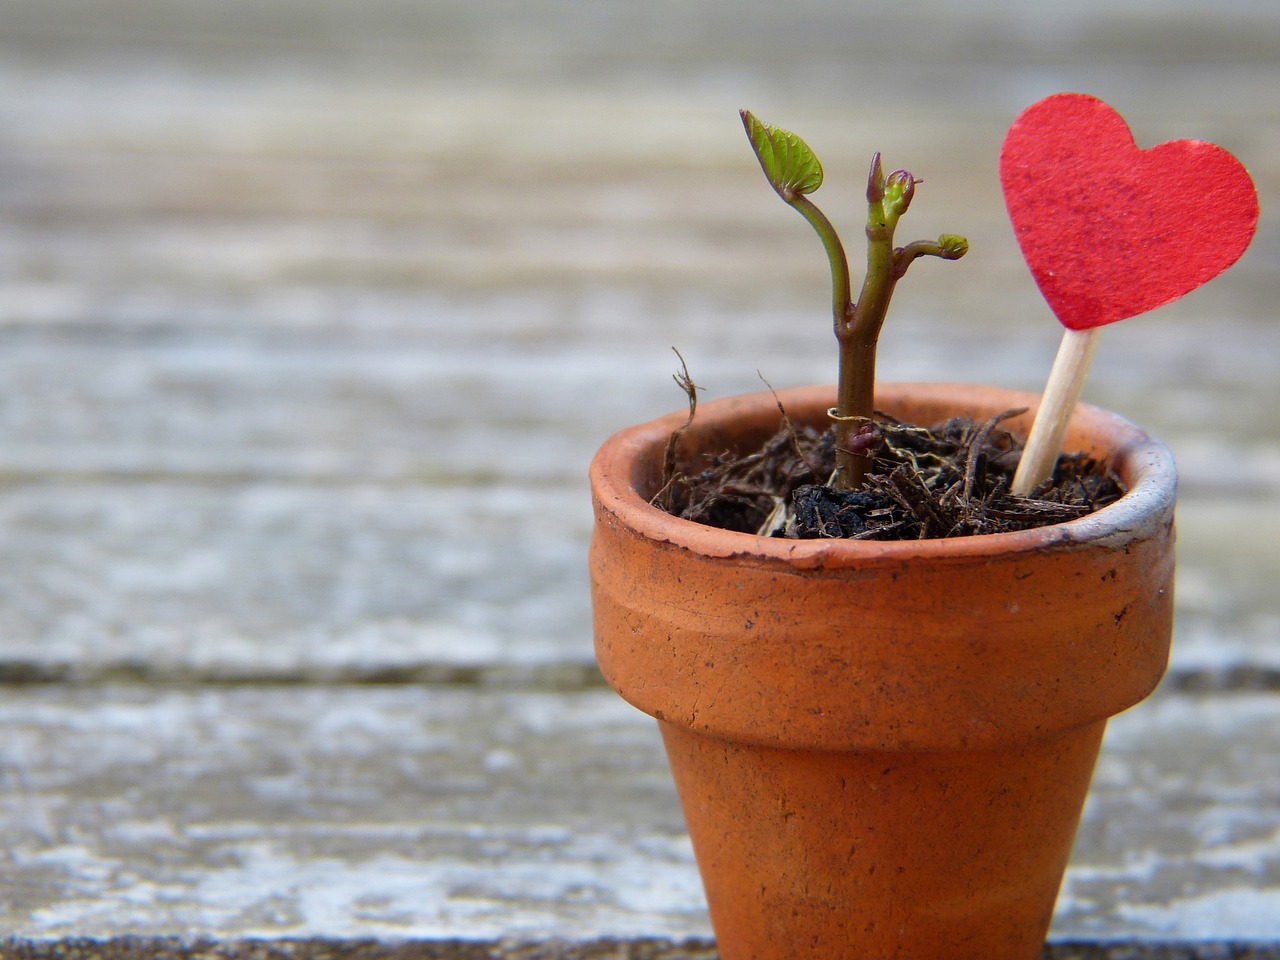
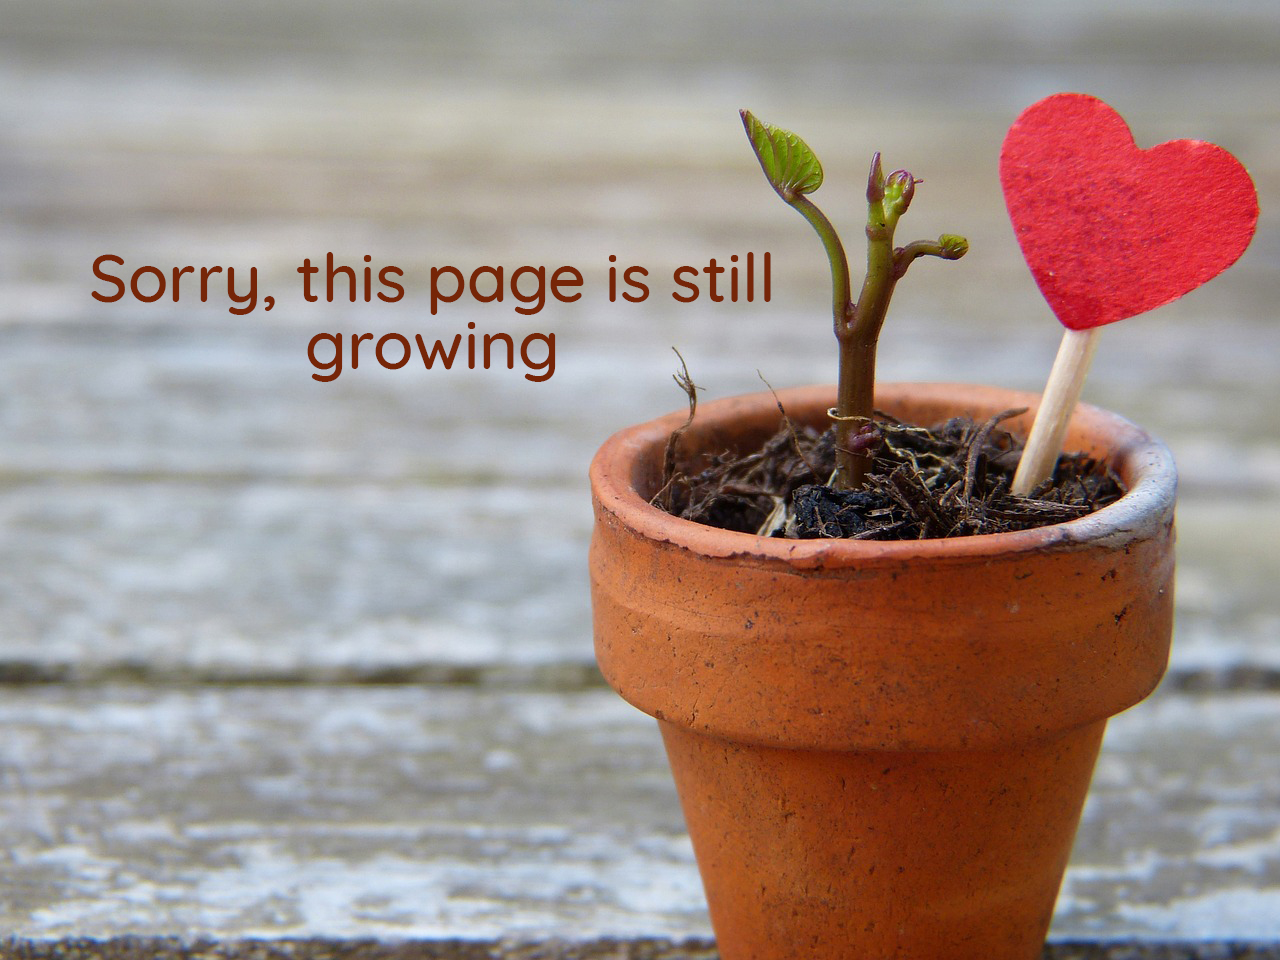
Index changes
+ growing picture added

Changed region(s): [[0.0625, 0.25, 0.625, 0.4062]]

diff --git a/css/style.css b/css/style.css
@@ -47,9 +47,10 @@ p {
 }
 /*position the weather and maintenance side-by-side*/
 #weatherbox {
-    width: 50%;
+    width: 45%;
     float: left;
     margin-top: 2%;
+	padding-right: 5%;
 }
 #iframe {
     text-align: center;

diff --git a/index.php b/index.php
@@ -45,8 +45,7 @@
 		<!--Maintenance box-->
 		<div id="maintenancebox">
 			<h2>Today's Maintenance</h2>
-			<p>There is no maintenance being carried out today :)<br/> We are mowing the lawns
-				<!--insert area description from 10am-->.<br/> The ponds are being cleaned over the next week, starting on [insert date].<br/> A sick tree is being removed from [insert area description] today.</p>
+			<p> The ponds are being cleaned over the next week, starting on 21th December 2017.</p>
 			<!--Maintenance log link -->
 
 		</div>
